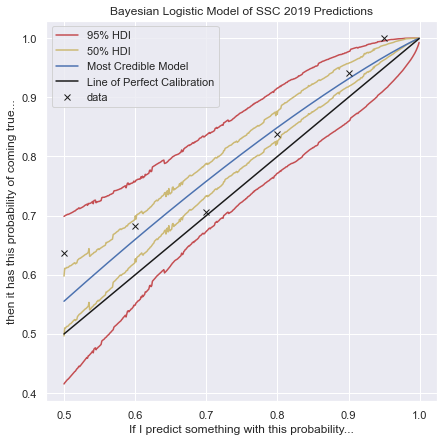
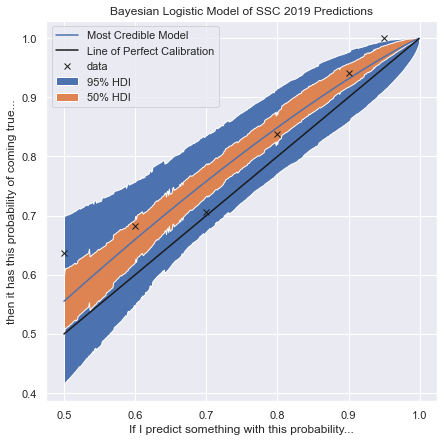
typos and stuff

Changed region(s): [[0.1464, 0.0588, 0.9662, 0.8824], [0.1171, 0.0588, 0.4977, 0.2353]]

diff --git a/posts/prediction_and_callibration_2.md b/posts/prediction_and_callibration_2.md
@@ -384,7 +384,7 @@ To:
 $y = invlogit(a\times{}logit(x) + b)$
 
 We transforms our $x$ (Scotts predictions) to the $logit$ scale and multiply it by $a$,
-if he is perfectly calibrated $a$ will still be close to $1$, but not it is
+if he is perfectly calibrated $a$ will still be close to $1$, but now it is
 hard to conceptualize what $a=2$ means, one solution is to guess a prior and
 then draw samples from it to see if it matches your intuition, while this may
 seem silly, it is actually a much better idea than trying to guess what is
@@ -564,10 +564,8 @@ ax = fig.add_subplot(111, xlabel='If I predict something with this probability..
                      ylabel='then it has this probability of coming true...', 
                      title='Bayesian Logistic Model of SSC 2019 Predictions')
 
-for credible_line, style, label in ((credible_95, 'r-', "95% HDI"), (credible_50, 'y-', "50% HDI")):
-    ax.plot(line, credible_line[:, 0], style)
-    ax.plot(line, credible_line[:, 1], style)
-    ax.plot([], [], style, label=label)
+for credible_line, label in ((credible_95, "95% HDI"), (credible_50, "50% HDI")):
+	ax.fill_between(line, credible_line[:, 0], credible_line[:, 1], label=label)
 
 map_line = expit(trace["b"].mean() + trace["a"].mean() * line_log_odds)
 ax.plot(line, map_line, 'b-', label="Most Credible Model")

diff --git a/posts/measurement.md b/posts/measurement.md
@@ -199,7 +199,7 @@ twice:
 
 $$
 \begin{aligned}
-    \epsilon_{twice} &= \frac{\epsilon}{\sqrt{2}}
+    \epsilon_{twice} &= \frac{\epsilon}{\sqrt{2}} \\
                      &= 0.71\epsilon
 \end{aligned}
 $$
@@ -249,8 +249,8 @@ Since the error distribution was centered on 0, the variance of the error is:
 
 $$
 \begin{aligned}
-    \epsilon_2^2 &= \frac{1}{N}\sum_{i=1}^{N} (\mu_i - 0)^2
-    \epsilon_2   &= \sqrt(\epsilon_2^2)
+    \epsilon_2^2 &= \frac{1}{N}\sum_{i=1}^{N} (\mu_i - 0)^2 \\
+    \epsilon_2   &= \sqrt{\epsilon_2^2}
 \end{aligned}
 $$
 

diff --git a/posts/prediction_and_callibration_1.md b/posts/prediction_and_callibration_1.md
@@ -68,7 +68,7 @@ product of the 3 Bernoulli likelihoods:
 $$
 \begin{aligned}
 P(\theta|Y) &= \prod_{i=1}^{3} p(\theta_i|y_i) \\
-			&= 0.6\times(1 - 0.6)0.7 = 0.168
+			&= 0.6\times(1 - 0.6)\times{}0.7 = 0.168
 \end{aligned}
 $$
 
